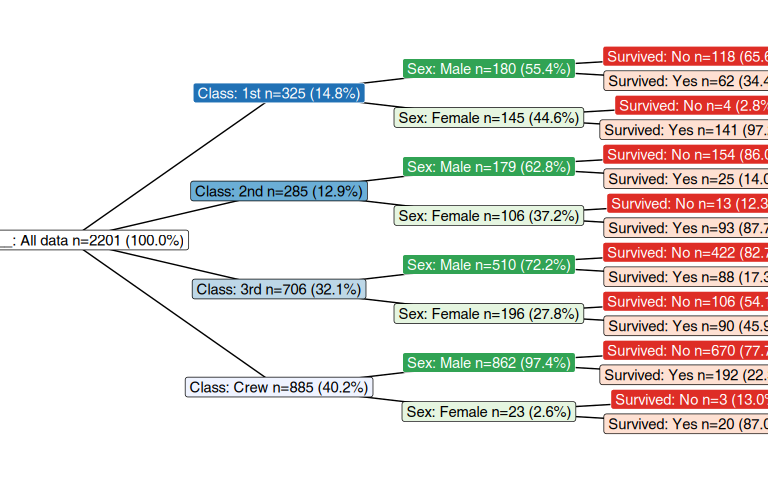
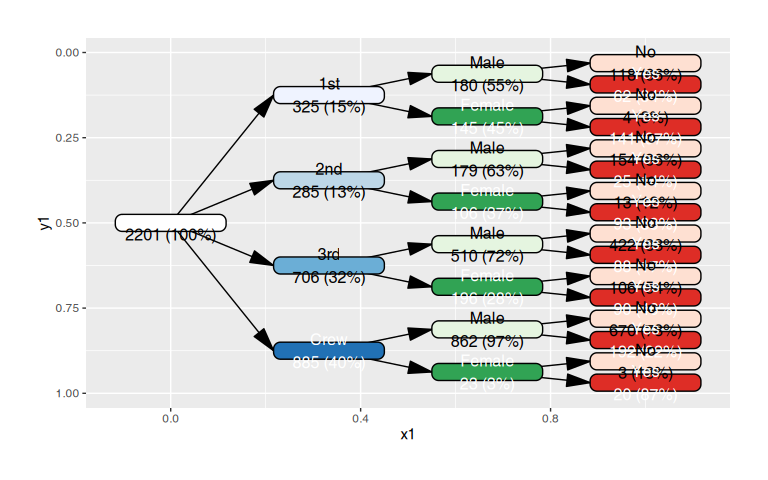
updated readme

diff --git a/README.md b/README.md
@@ -7,7 +7,8 @@
 
 <!-- badges: end -->
 
-The goal of vtree2 is to …
+Tree diagrams for categorical data, based on the [original vtree
+package](https://github.com/nbarrowman/vtree) by Nick Barrowman.
 
 ## Installation
 
@@ -54,28 +55,152 @@ plot(vt)
 #> ℹ Please use the `parent` argument instead.
 #> ℹ The deprecated feature was likely used in the tidygraph package.
 #>   Please report the issue at <https://github.com/thomasp85/tidygraph/issues>.
-#> Coordinate system already present.
-#> ℹ Adding new coordinate system, which will replace the existing one.
 ```
 
 <img src="man/figures/README-example_plot-1.png" alt="" width="100%" />
 
+**There is more:** trees can be oriented vertically or horizontally, top
+to bottom, bottom to top, left to right, right to left; labels and
+colors can be freely customized, trees can be pruned for display.
+
 ### Vtree pruning
+
+With the `prune()` function, you can find nodes which fullfill a certain
+condition and remove them (along with their children) from the vtree:
 
 ``` r
 ucb <- cases_from_freqtable(UCBAdmissions)
 vt <- vtree(ucb, Dept, Gender, Admit) |>
   prune(n < 100 | freq < .15)
-plot(vt, by_freq = TRUE)
-#> Coordinate system already present.
-#> ℹ Adding new coordinate system, which will replace the existing one.
+plot(vt, proportional = TRUE)
 ```
 
 <img src="man/figures/README-example_pruning-1.png" alt="" width="100%" />
 
+**There is more:** with `find_nodes()` you can find nodes which fullfill
+a certain condition. The produced mask (a simple logical vector) can be
+used to select nodes for changing labels or colors. With `keep()`, you
+can select the nodes you want to keep and remove other nodes.
+
+### Labelling and colors
+
+While colors and labels can be generated automatically, it is possible
+to customize them by modifying the `label` and `fill` columns of the
+vtree object:
+
+``` r
+vt <- vtree(tdf, Class, Survived)
+vt <- vt |> add_labels() |> # add default labels
+  add_palette() |>
+  mutate(label = gsub("No", "Not survived", label)) |>
+  mutate(fill = ifelse(node_col == "Survived" &
+                       node_val == "No", "red", fill))
+
+plot(vt)
+```
+
+<img src="man/figures/README-unnamed-chunk-2-1.png" alt="" width="100%" />
+
+**There is more:** `add_labels()` is highly customizable and you can
+produce complex labels with a simple R expression using `sprintf()` or
+`glue()`.
+
+### Summaries
+
+The tree can be used to produce per-node summaries of any data. For
+example, if you have an additional variable for your cases, you can add
+summary of the values as labels to the nodes.
+
+``` r
+vt <- vtree(tdf, Class, Sex, Survived)
+                                         
+sm_txt <- summary_vt(tdf, vt, Age)
+vt |> 
+  add_labels() |>
+  mutate(label = paste0(label, "\n", sm_txt)) |> plot()
+```
+
+<img src="man/figures/README-unnamed-chunk-3-1.png" alt="" width="100%" />
+
+**There is more:** `summary_vt()` can be used to calculate any summary
+of categorical or continuous variables as a character vector which can
+be then used as labels for the nodes. `summary_vt_df()` produces a data
+frame with per-node summary statistics (different for categorical and
+continuous variables) which can be used for further analysis.
+
 ### Vtree patterns
+
+## Differences between vtree2 and the original vtree
+
+### Motivation
+
+The original vtree package implements most of its functionality in a
+single function `vtree()` producing a plot. The function implements its
+own mini-language for specifying formats of labels, variables,
+conditions to select nodes and so on. This allows for simple and terse
+function calls.
+
+However, this limits the flexibility of the package. It is not possible
+to fully customize the labels, inspect the interim data, use the various
+summaries for other purposes (e.g. to produce simple tables). `vtree2`
+separates data preparation, label construction, node selection and
+plotting into four separate steps. This comes at the cost of more
+verbose function calls.
+
+### Design principles for vtree2
+
+- separate frequency calculations, summary calculations, node selection
+  and plotting
+- use graphical objects for plotting which are flexible
+- use tidyverse principles for data manipulation
+- use tidyverse syntax for specifying variables
+- vtree object inherits from tidygraph’s tbl_graph, so it can be used
+  with a wide variety of plotting tools, including ggraph, ggplot2, and
+  plotly
+
+### Practical differences
+
+- In vtree2, you first prepare the data with `vtree()` and then plot it
+  with `plot()`. This means one more function call, but a much more
+  flexible plotting system.
+- Given that a vtree object is a tbl_graph, you are not limited to the
+  built-in plotting functions. You can use ggraph, ggplot2, or plotly to
+  create your own plots.
+- There are some automatic summary and plotting functions, but you can
+  also have a very tight control about the labels by modifying the
+  `label` column in the vtree object.
+- The summary_vt function can be used to calculate summary statistics
+  for each node based on any additional data. It is not limited to using
+  the data from which the vtree was constructed, and you can use the
+  exposed statistics to shape any label you would like.
+- Same goes for colors: instead of using automatic color assignments
+  that mimick these of the original vtree, you can use any color scheme
+  you like by assigning values to the `color` column in the vtree
+  object.
+- The downside of this setup is that the original vtree allows you to
+  generate a beautiful plot with a single terse function call, whereas
+  vtree2 is much more explicit and requires several steps. The upside is
+  that you have more flexibility and more control over the final plot.
+- Using ggplot2 unfortunately means that you might need to adapt the
+  node sizes and label font sizes manually. ggplot2 is not aware of the
+  size of the text and plot when constructed.
+- Similarly, the geometry of the plot is chosen by the original vtree
+  plotting function, whereas in vtree2 the geometry of the plot is
+  chosen by the user, and plotting function tries to fit the graph
+  inside it, possibly requiring the user to adapt the font and label
+  sizes or the geometry.
+- The mini-language implemented in vtree is now replaced by explicit
+  operations: finding nodes, labelling, selecting colors for plotting
+  etc.
+
+## AI disclosure
+
+I have not used LLMs directly in writing the code or documentation.
+However, I did use an LLM based chat to discuss some of the design
+issues (e.g. to compare existing packages for graph representation).
+Also, for code review / bug finding.
 
 ## TODO
 
 - plotting function for patterns
-- should the vtree function take cases or samples?
+- should the vtree() function take cases or samples?